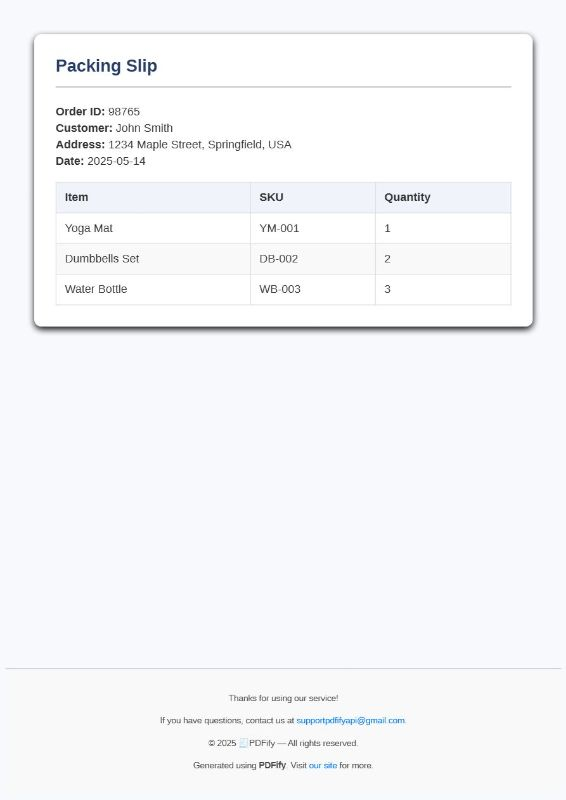
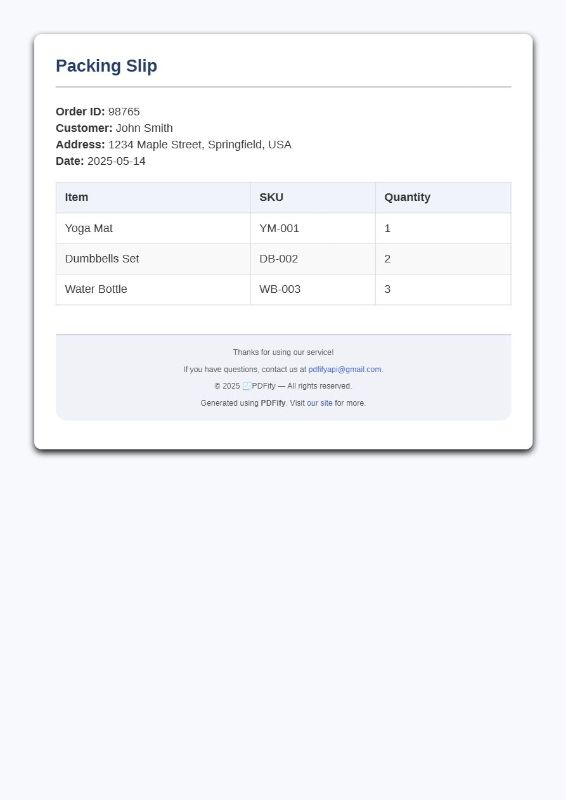
Update

Changed region(s): [[0.03, 0.4062, 0.9611, 0.5625], [0.3004, 0.8438, 0.7208, 0.9688], [0.0601, 0.5625, 0.9311, 0.5938]]

diff --git a/app/server/routes/friendlyMode.js b/app/server/routes/friendlyMode.js
@@ -32,7 +32,7 @@ router.get('/check-access', authenticate, dualAuth, async (req, res) => {
     if (!user) return res.status(404).json({ error: 'User not found' });
 
     // Uncomment the next line to simulate premium access during development:
-  //return res.json({ accessType: 'premium' });
+  return res.json({ accessType: 'premium' });
 
     const accessType = user.plan === 'premium' ? 'premium' : 'basic';
     res.json({ accessType });
@@ -57,8 +57,8 @@ router.post('/generate', authenticate, dualAuth, async (req, res) => {
     }
 
     // Uncomment and use real user plan check in production
-    //let isPremium = true; 
-    let isPremium = user.plan === 'premium';
+    let isPremium = true; 
+    // let isPremium = user.plan === 'premium';
 
     if (templateConfig.premiumOnly && !isPremium) {
       return res.status(403).json({ error: 'This template is available for premium users only.' });

diff --git a/app/server/routes/packing-slipRoutes.js b/app/server/routes/packing-slipRoutes.js
@@ -229,7 +229,7 @@ function generatePackingSlipHTML(data, addWatermark = false, isPremiumUser = fal
               `).join('')}
             </tbody>
           </table>
-
+</div>
 
 
           <div class="footer">
